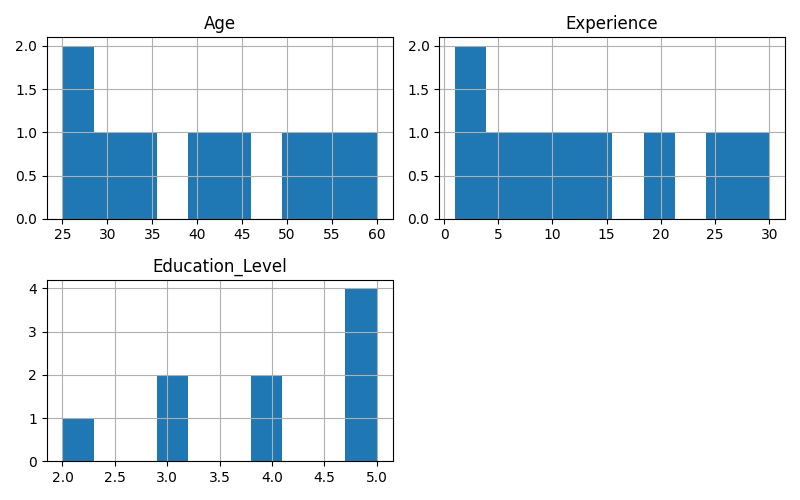
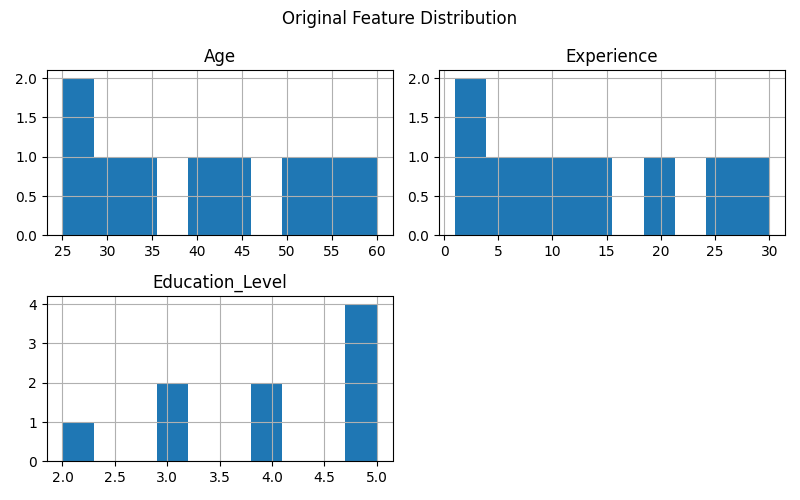
Add feature scaling comparision and model result

diff --git a/src/salary_prediction.py b/src/salary_prediction.py
@@ -2,21 +2,103 @@ import pandas as pd
 import matplotlib.pyplot as plt
 from pathlib import Path
 
+from sklearn.preprocessing import MinMaxScaler, StandardScaler
+from sklearn.linear_model import LinearRegression
+from sklearn.neighbors import KNeighborsRegressor
+
+
 BASE_DIR = Path(__file__).resolve().parent.parent
 csv_file = BASE_DIR / "data" / "employee_salary.csv"
 images_dir = BASE_DIR / "images"
+results_file = BASE_DIR / "results.txt"
 
 df = pd.read_csv(csv_file)
 
-print("Dataset Loaded Successfully")
-print(df.head())
+X = df[["Age", "Experience", "Education_Level"]]
+y = df["Salary"]
 
-print("\nSummary Statistics")
-print(df.describe())
 
-df[["Age", "Experience", "Education_Level"]].hist(figsize=(8, 5))
+def save_histogram(data, title, filename):
+    data.hist(figsize=(8, 5))
+    plt.suptitle(title)
+    plt.tight_layout()
+    plt.savefig(images_dir / filename)
+    plt.close()
 
-plt.tight_layout()
-plt.savefig(images_dir / "raw_features.png")
-plt.show()
-print("raw_features.png saved inside images folder")
+
+save_histogram(X, "Original Feature Distribution", "raw_features.png")
+
+minmax_scaler = MinMaxScaler()
+X_normalized = pd.DataFrame(
+    minmax_scaler.fit_transform(X),
+    columns=X.columns
+)
+
+save_histogram(
+    X_normalized,
+    "Normalized Feature Distribution",
+    "normalized_features.png"
+)
+
+standard_scaler = StandardScaler()
+X_standardized = pd.DataFrame(
+    standard_scaler.fit_transform(X),
+    columns=X.columns
+)
+
+save_histogram(
+    X_standardized,
+    "Standardized Feature Distribution",
+    "standardized_features.png"
+)
+
+
+linear_model = LinearRegression()
+
+linear_model.fit(X, y)
+linear_no_scaling_score = linear_model.score(X, y)
+
+linear_model.fit(X_normalized, y)
+linear_normalized_score = linear_model.score(X_normalized, y)
+
+linear_model.fit(X_standardized, y)
+linear_standardized_score = linear_model.score(X_standardized, y)
+
+
+knn_model = KNeighborsRegressor(n_neighbors=3)
+
+knn_model.fit(X, y)
+knn_no_scaling_score = knn_model.score(X, y)
+
+knn_model.fit(X_normalized, y)
+knn_normalized_score = knn_model.score(X_normalized, y)
+
+knn_model.fit(X_standardized, y)
+knn_standardized_score = knn_model.score(X_standardized, y)
+
+
+results = f"""
+Employee Salary Prediction - Feature Scaling Results
+
+Linear Regression Scores:
+No Scaling: {linear_no_scaling_score:.4f}
+Normalization: {linear_normalized_score:.4f}
+Standardization: {linear_standardized_score:.4f}
+
+KNN Regression Scores:
+No Scaling: {knn_no_scaling_score:.4f}
+Normalization: {knn_normalized_score:.4f}
+Standardization: {knn_standardized_score:.4f}
+
+Observations:
+1. Normalization scales values between 0 and 1.
+2. Standardization transforms features around mean 0 and standard deviation 1.
+3. Linear Regression may not show a big difference because it is less sensitive to feature scale.
+4. KNN is more sensitive to feature scale because it uses distance between data points.
+5. Feature scaling is very important for distance-based models and many deep learning models.
+"""
+
+results_file.write_text(results)
+
+print(results)
+print("Project completed successfully.")
